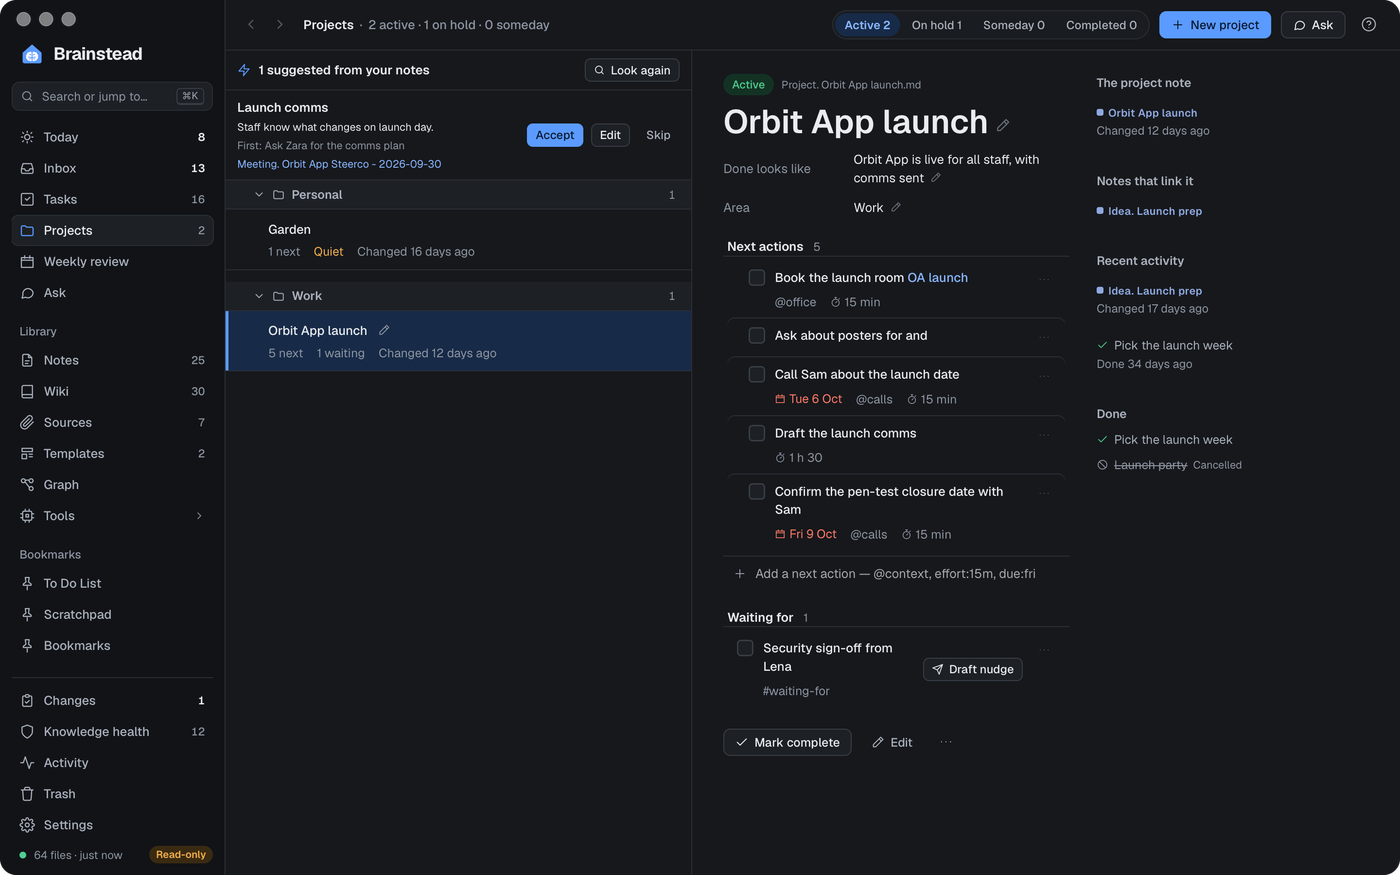
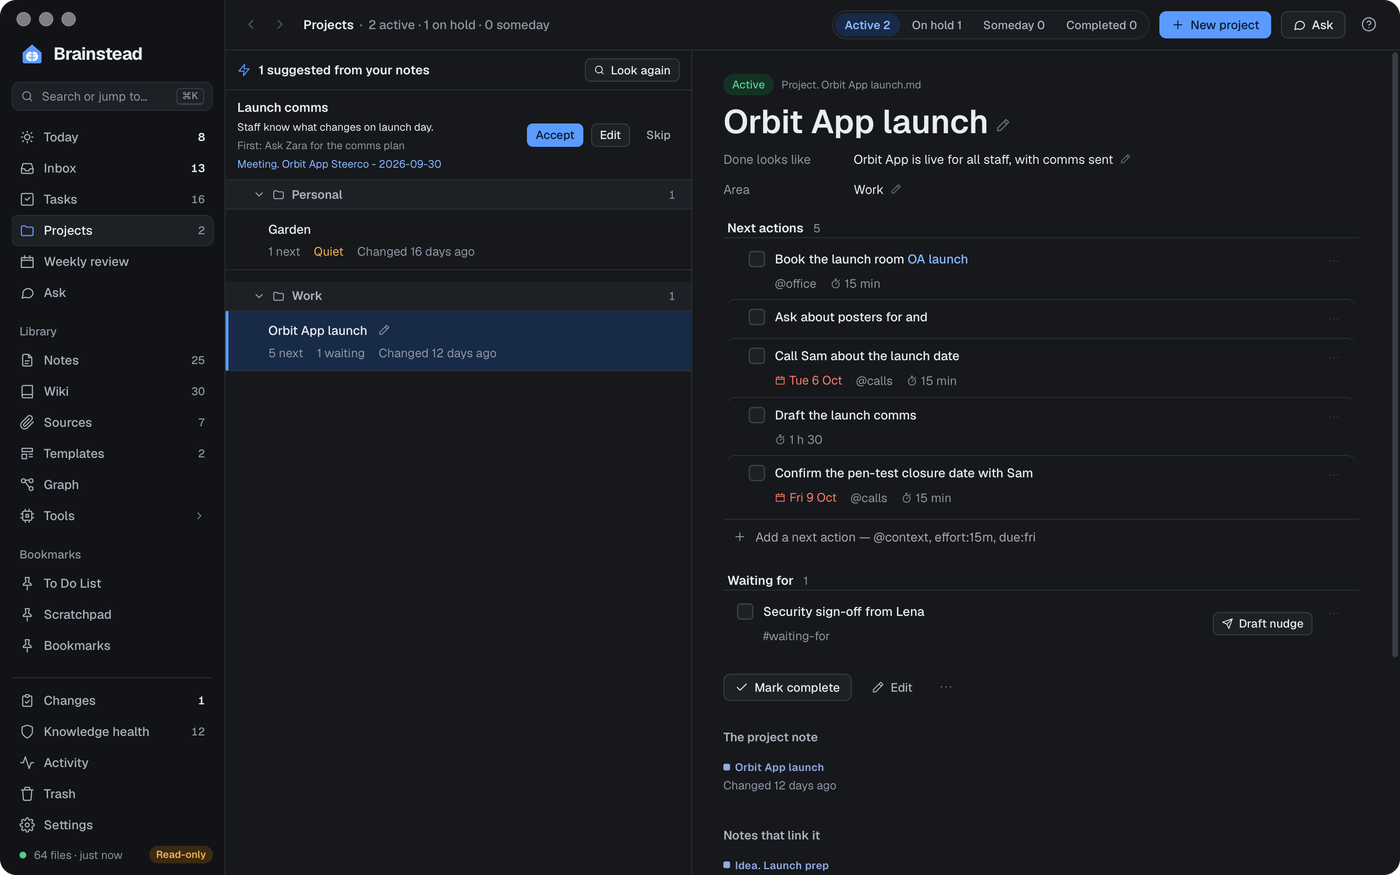
Narrow windows: a project's side column goes under its tasks when the pane is narrow (a container query), side columns narrow below 1280 px (Projects, Tasks, Weekly review, Meeting notes, Changes, Health, Activity), a note's side pane goes under it, and below 1100 px Today's rail goes under the task

diff --git a/src/styles.css b/src/styles.css
@@ -472,6 +472,8 @@ input {
   display: flex;
   align-items: center;
   gap: 6px;
+  min-width: 0;
+  white-space: nowrap;
   color: var(--ink3);
   font-weight: 500;
 }
@@ -6307,6 +6309,7 @@ select.sel {
 .pdetail {
   overflow-y: auto;
   padding: 24px 32px 40px;
+  container: pdetail / inline-size;
 }
 .pgrid {
   display: grid;
@@ -6853,11 +6856,13 @@ select.sel {
   font-size: 13.5px;
 }
 .wkcard {
-  padding: 14px 16px;
   display: flex;
   flex-direction: column;
   gap: 10px;
   align-items: flex-start;
+}
+.wkcard > .cardcap {
+  align-self: stretch;
 }
 .wproj {
   display: grid;
@@ -9888,4 +9893,70 @@ html.tray-view body {
   padding: 0 5px;
   border-top-left-radius: 0;
   border-bottom-left-radius: 0;
+}
+
+/* Narrow windows: the top bar keeps its words on one line, side columns narrow, and a pane's own
+   side column goes under it when there isn't room beside it. */
+.top .crumbs > span:last-child {
+  overflow: hidden;
+  text-overflow: ellipsis;
+}
+.top .crumbs b,
+.seg button,
+.seglabel,
+.wprog {
+  white-space: nowrap;
+}
+
+@container pdetail (max-width: 720px) {
+  .pgrid {
+    grid-template-columns: minmax(0, 1fr);
+  }
+}
+
+@media (width <= 1280px) {
+  .body.projects {
+    grid-template-columns: minmax(300px, 34%) minmax(0, 1fr);
+  }
+  .body.tasks3 {
+    grid-template-columns: 180px minmax(0, 1fr) 300px;
+  }
+  .body.weekly {
+    grid-template-columns: 210px minmax(0, 1fr) 280px;
+  }
+  .body.meeting {
+    grid-template-columns: 260px minmax(0, 1fr) 320px;
+  }
+  .body.queue {
+    grid-template-columns: 320px minmax(0, 1fr);
+  }
+  .body.health,
+  .body.activity {
+    grid-template-columns: minmax(0, 1fr) 300px;
+  }
+  .docgrid {
+    grid-template-columns: minmax(0, 1fr);
+  }
+  .docgrid .docside {
+    position: static;
+  }
+}
+
+@media (width <= 1100px) {
+  .igroups {
+    grid-template-columns: minmax(0, 1fr);
+  }
+
+  .body.today {
+    grid-template-columns: minmax(0, 1fr);
+  }
+  .body.tasks3 {
+    grid-template-columns: 160px minmax(0, 1fr) 260px;
+  }
+  .body.weekly {
+    grid-template-columns: 190px minmax(0, 1fr);
+  }
+  .body.weekly .wside {
+    display: none;
+  }
 }

diff --git a/src/Weekly.tsx b/src/Weekly.tsx
@@ -251,7 +251,7 @@ export function WeeklyScreen() {
         sub={ctx ? `week ${week.slice(-2)} · ${ctx.range}` : week}
         ask={{ about: `this week's review: ${step.title.toLowerCase()}`, prompt: `For my weekly review, ${step.title.toLowerCase()}: ` }}
       >
-        <span className="faint small">
+        <span className="faint small wprog">
           Step {st.step + 1} of {STEPS.length}
           {left > 0 ? ` · about ${left * 3} min left` : ""}
         </span>
@@ -564,7 +564,7 @@ function Step({ id, ctx, log }: { id: string; ctx: WeeklyContext | null; log: (l
     case "inbox": {
       const n = (inbox ?? []).filter(unclarified).length;
       return (
-        <div className="card wkcard">
+        <div className="wkcard">
           <b>{n ? `${n} to clarify` : "The inbox is empty."}</b>
           {n > 0 && (
             <button type="button" className="btn" title="Go to the Inbox to clarify what's in it" onClick={() => nav.go("inbox")}>
@@ -594,9 +594,11 @@ function Step({ id, ctx, log }: { id: string; ctx: WeeklyContext | null; log: (l
     }
     case "ahead":
       return (
-        <div className="card wkcard">
+        <div className="wkcard">
           <p className="muted">Brainstead can't read your calendar, so open it yourself and capture what you find here.</p>
-          <CaptureBox compact />
+          <div className="card cardcap">
+            <CaptureBox compact />
+          </div>
         </div>
       );
     case "next":
